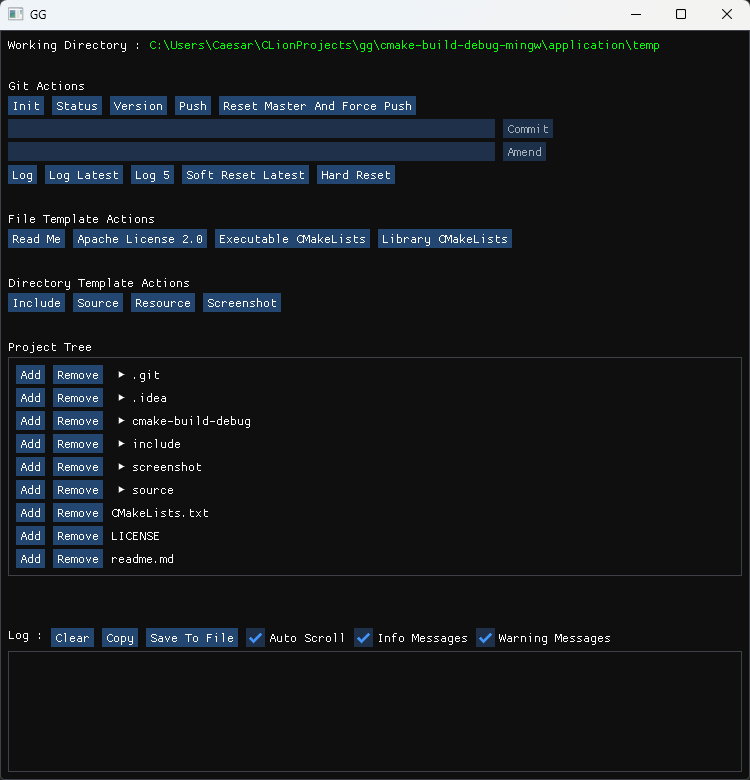
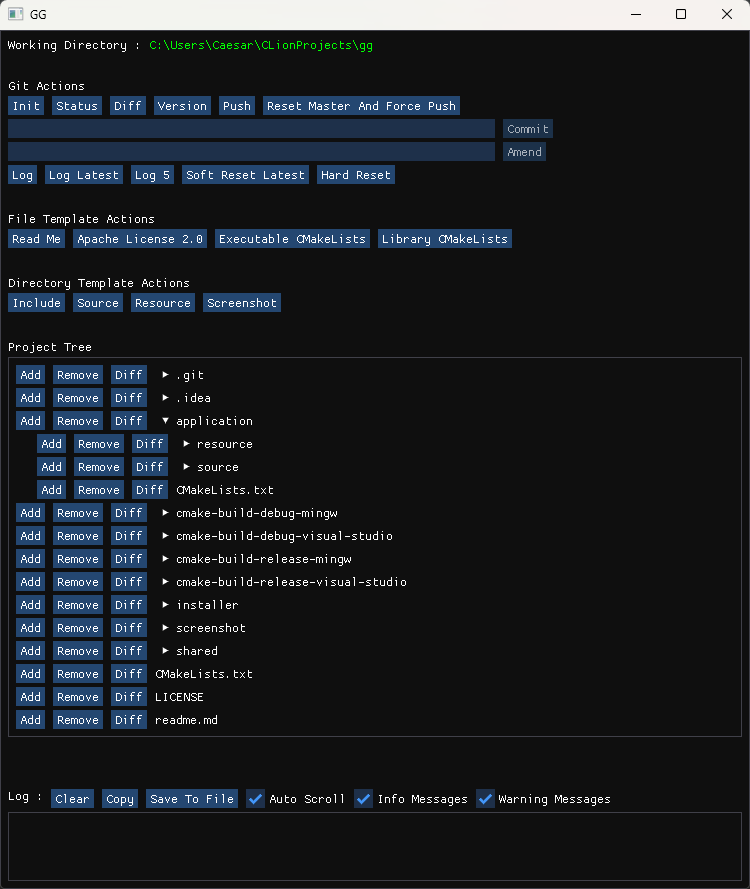
Diffs

diff --git a/application/source/actions/actions.cpp b/application/source/actions/actions.cpp
@@ -72,6 +72,7 @@ action_map_t action_map =
 	{	{	"Git Actions",
 			{	{ "Init", command_single("init") },
 				{ "Status", command_single("status") },
+				{ "Diff", command_single("diff") },
 				{ "Version", command_single("--version") },
 				{ "Push", command_single("push origin master") },
 				{	"Reset Master And Force Push",

diff --git a/application/source/form.cpp b/application/source/form.cpp
@@ -110,6 +110,8 @@ void form::draw_project_tree()
 									ImGui::SameLine();
 									button("Remove", "rm --cached -r");
 									ImGui::SameLine();
+									button("Diff", "diff");
+									ImGui::SameLine();
 									procedure(path);
 									ImGui::PopID();
 								}
